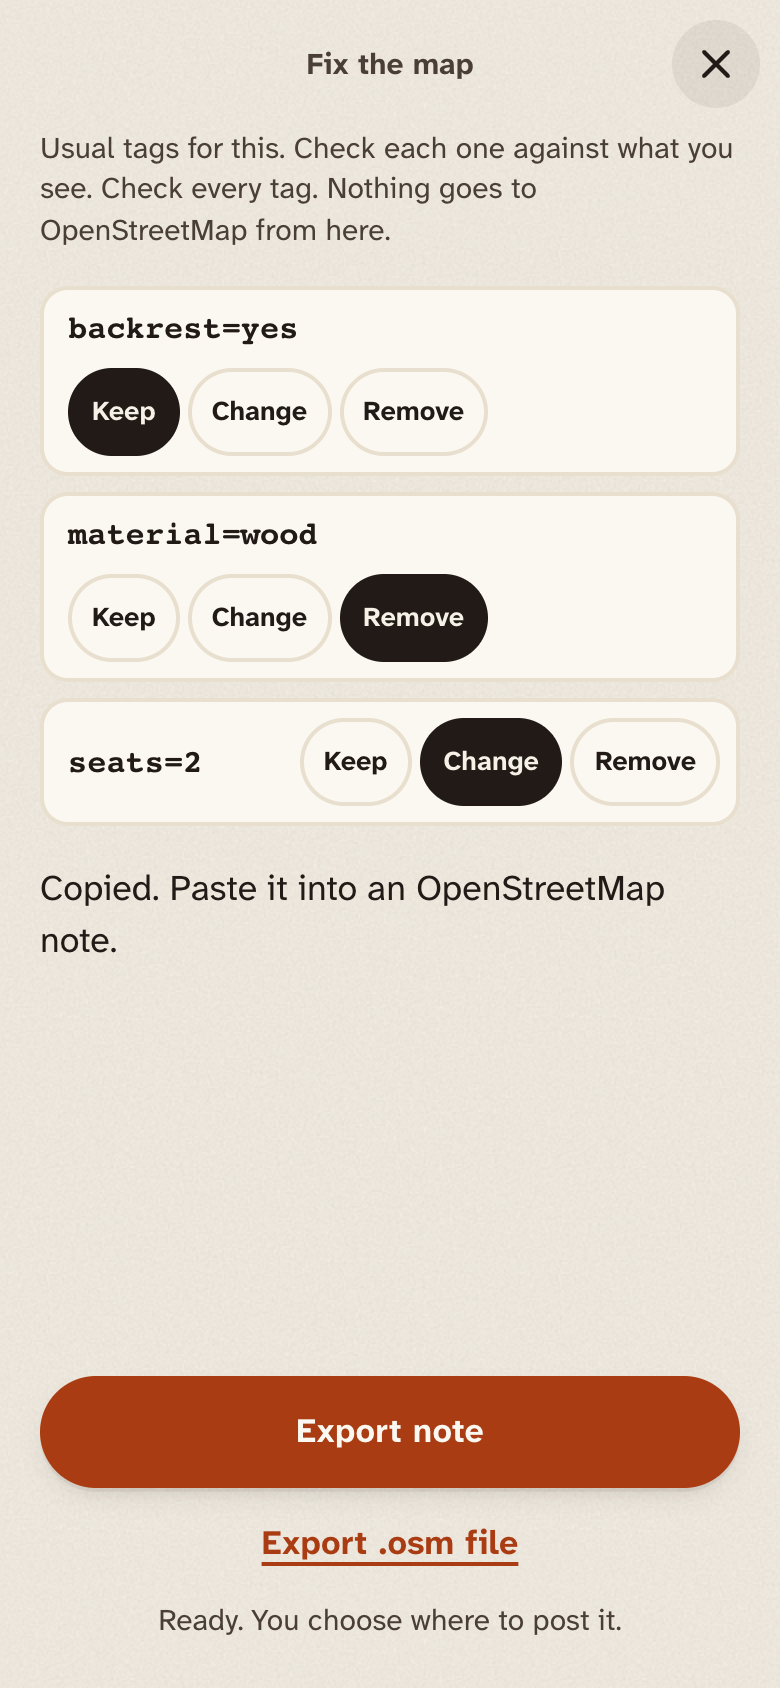
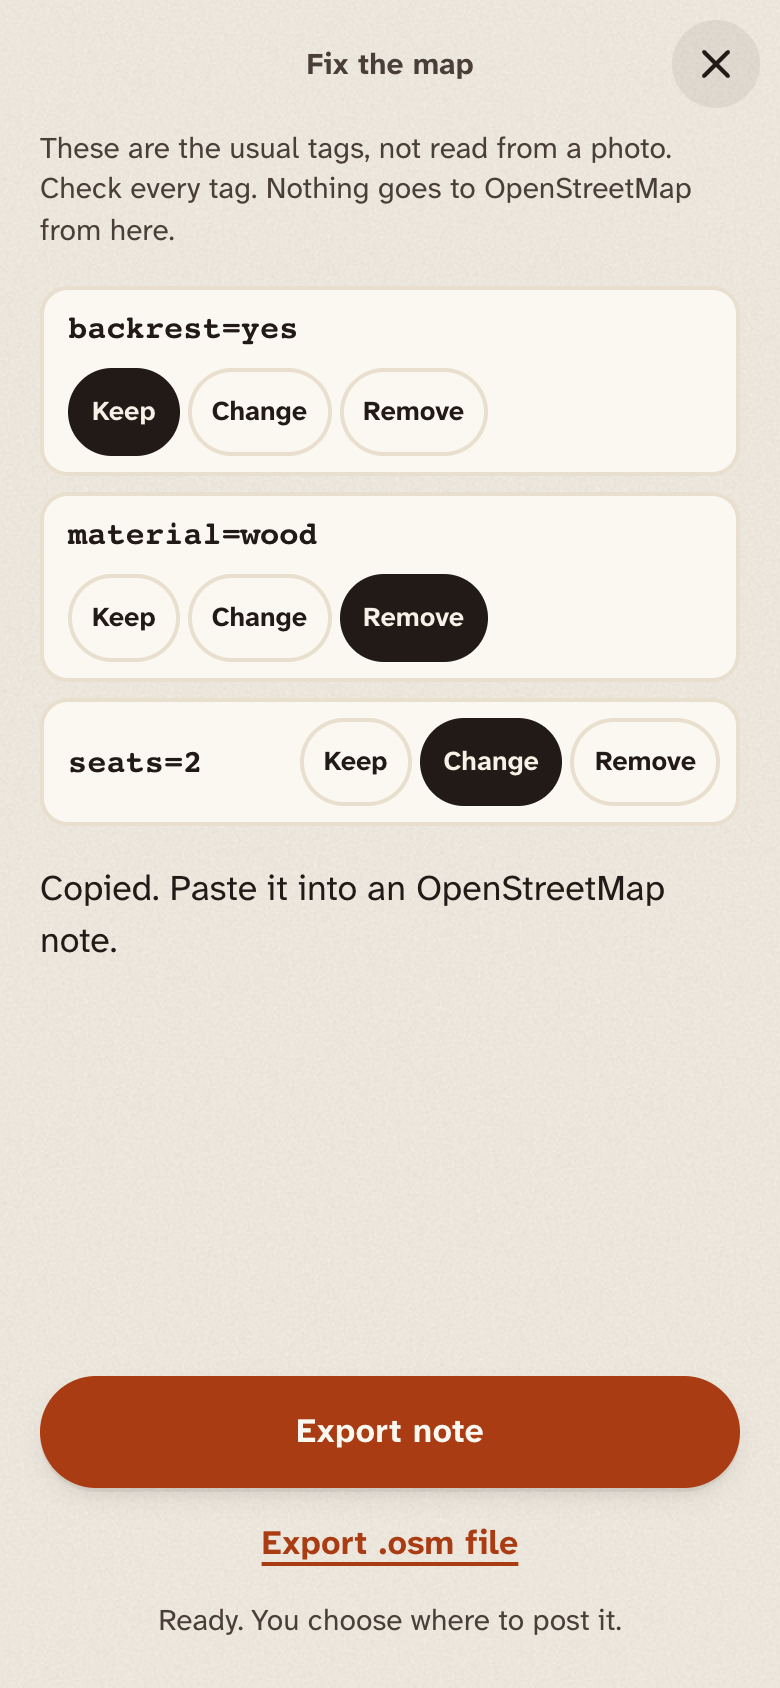
Fix the map drafts tags from a photo through the hub (ICR-ML5)
Take the photo: downscaled to 768 px, sent to /api/v1/drafts/tags, zeroed
after. Drafted tags start pending like the usual ones; the person's choice of
thing sets amenity. No photo or no hub: the usual tags, and the screen says
which. e2e:loop 20/20 with the real hub: bench photo to material=wood in
4.8 s cold, allow-listed keys only, export still locked until review.

Entire-Checkpoint: 01M4MXEEM6AZDDJSVHE33J1JYB

Changed region(s): [[0.0615, 0.0616, 0.8923, 0.154], [0.8923, 0.0616, 0.9231, 0.0924]]

diff --git a/apps/web/src/routes/app/(more)/fix-map/+page.svelte b/apps/web/src/routes/app/(more)/fix-map/+page.svelte
@@ -1,6 +1,7 @@
-<!-- O6 Fix the map (SRS-MAP-1 to -4): pick what's missing, check every tag, export a note or an
-     .osm file. Nothing is sent to OpenStreetMap or to our server; the person posts the export
-     themselves. With no photo drafter yet (ML5), the draft is the usual tags for the thing. -->
+<!-- O6 Fix the map (SRS-MAP-1 to -4): pick what's missing, take a photo, our laptop drafts the
+     tags (ICR-ML5, POST /api/v1/drafts/tags), the person checks every tag, then exports a note or
+     an .osm file. The photo is zeroed after the draft and is never in an export. Nothing is sent
+     to OpenStreetMap; the person posts the export themselves. No photo or no hub: the usual tags. -->
 <script lang="ts">
   import Screen from "#lib/components/Screen.svelte";
   import Button from "#lib/components/Button.svelte";
@@ -8,6 +9,7 @@
   import TextField from "#lib/components/TextField.svelte";
   import { t } from "#lib/copy/index.ts";
   import { askLocation } from "#lib/permissions/index.ts";
+  import { toJpeg768 } from "#lib/photo.ts";
   import { fixmap } from "#lib/map/index.ts";
   import type { AllowKey, Review, Thing } from "#lib/map/fixmap.ts";
   import { back } from "../back.ts";
@@ -20,12 +22,28 @@
   let error = $state("");
   let status = $state("");
   let locating = $state(false);
+  let drafting = $state(false);
+  let source = $state<"photo" | "none" | "failed">("none");
+  let input: HTMLInputElement | undefined = $state();
   let review = $state<Review | null>(null);
   let editing = $state<AllowKey | null>(null);
   let draft = $state("");
   let fieldError = $state("");
 
-  async function start() {
+  /** Ask the hub for tags. Empty on any failure; the thing's own amenity is the person's choice. */
+  async function ask(jpeg: Uint8Array): Promise<unknown> {
+    const res = await fetch("/api/v1/drafts/tags", {
+      method: "POST",
+      headers: { "content-type": "image/jpeg" },
+      body: jpeg as BodyInit,
+    });
+    if (!res.ok) throw new Error(String(res.status));
+    const body = (await res.json()) as { tags?: Record<string, string> };
+    const { amenity: _, ...rest } = body.tags ?? {};
+    return rest;
+  }
+
+  async function start(photo: File | null) {
     error = "";
     locating = true;
     const at = await askLocation({ timeoutMs: 15_000 });
@@ -35,7 +53,23 @@
       return;
     }
     const th = thing as Thing;
-    review = fixmap.startReview(th, { lat: at.coords.lat, lon: at.coords.lon }, fixmap.STARTER[th]);
+    let tags = fixmap.STARTER[th];
+    source = "none";
+    if (photo) {
+      drafting = true;
+      const jpeg = new Uint8Array(await (await toJpeg768(photo).catch(() => photo)).arrayBuffer());
+      const drafted = await fixmap.draftFromPhoto(jpeg, ask); // zero-fills jpeg (SRS-MAP-4)
+      drafting = false;
+      source = drafted.length ? "photo" : "failed";
+      if (drafted.length) tags = drafted;
+    }
+    review = fixmap.startReview(th, { lat: at.coords.lat, lon: at.coords.lon }, tags);
+  }
+
+  function picked(e: Event) {
+    const f = (e.currentTarget as HTMLInputElement).files?.[0] ?? null;
+    (e.currentTarget as HTMLInputElement).value = "";
+    if (f) start(f);
   }
 
   function edit(key: AllowKey, value: string) {
@@ -85,9 +119,16 @@
 <Screen heading={t("map.title")} title={t("map.title")} onclose={back}>
   {#if !review}
     <Choice label={t("map.pick")} bind:value={thing} {options} />
+    <p class="t-small t-muted">{t("map.photoAsk")}</p>
+    <input bind:this={input} class="file" type="file" accept="image/*" capture="environment" onchange={picked} tabindex="-1" aria-hidden="true" />
+    {#if drafting}<p class="t-muted" role="status">{t("map.drafting")}</p>{/if}
     {#if error}<p role="alert">{error}</p>{/if}
   {:else}
-    <p class="t-small t-muted">{t("map.starter")} {t("map.review")}</p>
+    {#if source === "photo"}<p class="t-small" role="status">{t("map.photoGone")}</p>{/if}
+    <p class="t-small t-muted">
+      {source === "photo" ? t("map.drafted") : source === "failed" ? t("map.noDraft") : t("map.starter")}
+      {t("map.review")}
+    </p>
     <ul class="tags">
       {#each review.tags as tag (tag.key)}
         <li>
@@ -112,7 +153,8 @@
   {/if}
   {#snippet actions()}
     {#if !review}
-      <Button onclick={start} disabled={!thing} loading={locating}>{t("map.start")}</Button>
+      <Button icon="camera" onclick={() => input?.click()} disabled={!thing} loading={locating || drafting}>{t("camera.shutter")}</Button>
+      <Button variant="text" onclick={() => start(null)} disabled={!thing || locating || drafting}>{t("map.noPhoto")}</Button>
     {:else}
       <Button onclick={exportNote} disabled={!ready}>{t("map.export")}</Button>
       <Button variant="text" onclick={exportOsm} disabled={!ready}>{t("map.exportFile")}</Button>
@@ -132,4 +174,5 @@
   .acts button { min-height: 44px; padding: 0 10px; border-radius: var(--r-pill); border: 2px solid var(--line); background: transparent; color: var(--text); font-weight: 700; font-size: 0.85rem; }
   .acts button[aria-pressed="true"] { background: var(--text); color: var(--bg); border-color: var(--text); }
   .edit { display: flex; flex-direction: column; gap: 8px; }
+  .file { position: absolute; width: 1px; height: 1px; opacity: 0; pointer-events: none; }
 </style>

diff --git a/apps/web/test/e2e/loop.ts b/apps/web/test/e2e/loop.ts
@@ -33,15 +33,22 @@ const server = spawn(process.execPath, ["apps/server/src/main.ts"], {
   },
   stdio: "ignore",
 });
-process.on("exit", () => server.kill("SIGTERM"));
-for (let i = 0; i < 120; i++) {
-  if (
-    await fetch(`${URL0}/api/v1/health`).then(
-      (r) => r.ok,
-      () => false,
-    )
-  )
-    break;
+// The hub drafts Fix the map tags from a photo (ICR-ML5). It needs Ollama with the model.
+const hub = spawn(process.execPath, ["apps/hub/src/main.ts"], {
+  cwd: ROOT,
+  env: { ...process.env, LOG_LEVEL: "warn", FLARE_SERVER_URL: `ws://localhost:${PORT}` },
+  stdio: "ignore",
+});
+process.on("exit", () => {
+  hub.kill("SIGTERM");
+  server.kill("SIGTERM");
+});
+for (let i = 0; i < 240; i++) {
+  const h = await fetch(`${URL0}/api/v1/health`).then(
+    (r) => r.json() as Promise<{ hub: string }>,
+    () => ({ hub: "" }),
+  );
+  if (h.hub === "connected") break;
   await new Promise((r) => setTimeout(r, 250));
 }
 
@@ -158,7 +165,7 @@ try {
     });
     await page.goto(`${URL0}/app/fix-map/`);
     await page.getByRole("radio", { name: "Bench" }).check();
-    await page.getByRole("button", { name: "Check the tags" }).click();
+    await page.getByRole("button", { name: "No photo" }).click();
     const exportNote = page.getByRole("button", { name: "Export note" });
     await page.getByText("3 tags left to check").waitFor({ timeout: 10_000 });
     check("fix-map: export waits until every tag is checked (SRS-MAP-2)", await exportNote.isDisabled());
@@ -193,10 +200,71 @@ try {
     await page.screenshot({ path: path.join(OUT, "e2e-o6-fixmap.png"), fullPage: true });
     await ctx.close();
   }
+  // Fix the map with a real photo through the hub: a bench (lab photo 04, Wikimedia Commons,
+  // license in evals/datasheets/photos.md; lab/ is not in git, so this block needs the lab copy).
+  const BENCH = path.join(ROOT, "lab/data/photos/p04.jpg");
+  if (!fs.existsSync(BENCH)) console.info("SKIP fix-map photo draft: lab/data/photos/p04.jpg not here");
+  else {
+    const ctx = await browser.newContext({
+      ...phone,
+      permissions: ["geolocation"],
+      geolocation: { latitude: 42.3196, longitude: -83.2129 },
+    });
+    const page = await ctx.newPage();
+    const calls: string[] = [];
+    page.on("pageerror", (e) => fails.push(`fix-map photo: ${e.message}`));
+    page.on("request", (r) => {
+      if (new URL(r.url()).pathname.startsWith("/api/")) calls.push(new URL(r.url()).pathname);
+    });
+    await page.goto(`${URL0}/app/fix-map/`);
+    await page.getByRole("radio", { name: "Bench" }).check();
+    const t0 = Date.now();
+    await page.locator('input[type="file"]').setInputFiles(BENCH);
+    await page.getByText("Drafted from your photo on our laptop.").waitFor({ timeout: 20_000 });
+    const ms = Date.now() - t0;
+    const tags = await page.locator(".tags code").allTextContents();
+    check(
+      "fix-map photo: the hub drafts tags from the photo (SRS-MAP-1)",
+      tags.length > 0,
+      `${tags.join(" ")}, ${ms} ms`,
+    );
+    const keys = tags.map((x) => x.split("=")[0]);
+    check(
+      "fix-map photo: every drafted key is on the allow-list (BR-AI-4)",
+      keys.every((k) =>
+        [
+          "backrest",
+          "material",
+          "seats",
+          "wheelchair",
+          "fee",
+          "access",
+          "opening_hours",
+          "drinking_water",
+          "step_count",
+          "handrail",
+          "covered",
+          "lit",
+        ].includes(k ?? ""),
+      ),
+    );
+    check(
+      "fix-map photo: says the photo is deleted (SRS-MAP-4)",
+      await page.getByText("Photo deleted. It's not in the export.").isVisible(),
+    );
+    check(
+      "fix-map photo: every tag still waits for review",
+      await page.getByRole("button", { name: "Export note" }).isDisabled(),
+    );
+    check("fix-map photo: one API call, the draft", calls.join(",") === "/api/v1/drafts/tags", calls.join(","));
+    await page.screenshot({ path: path.join(OUT, "e2e-o6-fixmap-photo.png"), fullPage: true });
+    await ctx.close();
+  }
 } catch (e) {
   fails.push(e instanceof Error ? (e.message.split("\n")[0] ?? "error") : String(e));
 }
 await browser.close();
+hub.kill("SIGTERM");
 server.kill("SIGTERM");
 console.info(fails.length ? `\nFAIL ${fails.join(" | ")}` : "\nloop e2e: all pass");
 process.exit(fails.length ? 1 : 0);

diff --git a/docs/content/03-checks.md b/docs/content/03-checks.md
@@ -4,7 +4,7 @@ Generated by `design/prototype/scripts/copy-lint.mjs`. Run it from `design/proto
 
 ## Result
 
-- Strings checked: **720** keys (5 with a singular form), in 21 kinds: title 100, aria 28, status 60, hint 50, separator 2, error 29, button 92, message 101, label 50, placeholder 7, share 7, option 13, fragment 33, export 1, push 12, bot 18, log 1, sms 4, og-title 9, og-desc 10, prose 93.
+- Strings checked: **723** keys (5 with a singular form), in 21 kinds: title 100, aria 28, status 60, hint 53, separator 2, error 29, button 92, message 101, label 50, placeholder 7, share 7, option 13, fragment 33, export 1, push 12, bot 18, log 1, sms 4, og-title 9, og-desc 10, prose 93.
 - Problems: **0**.
 - Longest button: 3 words (limit 3). Longest UI string: 12 words (limit 12). Longest prose sentence: 23 words (limit 25).
 - Fixed requirement strings present word for word: 41 of 41.
@@ -32,12 +32,12 @@ Every string, raw template and filled sample, against each rule:
 
 ## Readability (Flesch-Kincaid grade)
 
-Formula: 0.39 × (words ÷ sentences) + 11.8 × (syllables ÷ words) − 15.59, in `scripts/readability.mjs`. Strings of 4 words or more are graded (420); the other 293 are buttons and labels of 1 to 3 words, where one long word decides the score and the grade means nothing. Scores below 0 count as 0 in the averages. Target: about grade 6.
+Formula: 0.39 × (words ÷ sentences) + 11.8 × (syllables ÷ words) − 15.59, in `scripts/readability.mjs`. Strings of 4 words or more are graded (423); the other 293 are buttons and labels of 1 to 3 words, where one long word decides the score and the grade means nothing. Scores below 0 count as 0 in the averages. Target: about grade 6.
 
 | Group | Strings | Average grade | Over 8 |
 | --- | --- | --- | --- |
-| All graded strings | 420 | 2.1 | 10 |
-| UI (buttons, messages, labels, push, bot) | 318 | 1.6 | 5 |
+| All graded strings | 423 | 2.1 | 10 |
+| UI (buttons, messages, labels, push, bot) | 321 | 1.6 | 5 |
 | Prose (website, statements, exports) | 102 | 4.0 | 5 |
 
 Strings above grade 8, and why they stay:
@@ -153,7 +153,7 @@ Note for engineering: the "…" that BR-CH-2 asks for is not in the GSM-7 alphab
 These strings are final but live in channels or components outside this role's files. Each group says who wires it.
 
 - **Component (wire after merge): Screen.svelte** (2): `app.close`, `app.menu`
-- **Engineering or design to place** (156): `app.sending`, `app.loading`, `app.tier.phone`, `app.tier.rules`, `app.dot`, `err.server`, `err.rateLimit`, `err.over`, `err.sealPhoto`, `err.storageFull`, `err.oldBrowser`, `err.inAppBrowser`, `perm.locationHost.title`, `perm.locationHost.body`, `perm.locationHost.allow`, `perm.locationHost.alt`, `perm.locationHost.denied`, `perm.locationHost.label`, `perm.locationHost.placeholder`, `perm.locationFriend.title`, `perm.locationFriend.body`, `perm.locationFriend.allow`, `perm.locationFriend.alt`, `perm.locationFriend.denied`, `perm.motion.title`, `perm.motion.body`, `perm.motion.allow`, `perm.motion.alt`, `perm.motion.denied`, `perm.notify.title`, `perm.notify.body`, `perm.notify.allow`, `perm.notify.alt`, `perm.notify.homeScreen`, `perm.notify.homeScreenHow`, `perm.notify.denied`, `perm.mic.title`, `perm.mic.body`, `perm.mic.body2`, `perm.mic.allow`, `perm.mic.alt`, `perm.mic.denied`, `develop.tooLong`, `sent.copyText`, `sent.copied`, `host.cancel.title`, `host.cancel.body`, `host.cancel.yes`, `host.cancel.no`, `host.textYes.open`, `host.textYes.label`, `host.textYes.hint`, `host.textYes.add`, `host.textYes.done`, `host.textYes.max`, `host.textYes.wrong`, `host.live.title`, `host.live.body`, `host.live.yes`, `host.live.no`, `join.full`, `invite.where`, `cond.listening`, `cond.tooMany`, `readback.line`, `readback.rule.after`, `readback.rule.maxWalk`, `readback.chip.after`, `readback.chip.maxWalk`, `readback.plain.title`, `readback.plain.yes`, `readback.plain.no`, `in.takenBack`, `notSuit.restroom`, `access.noneNear`, `lit.cantSheet.title`, `lit.cantSheet.body`, `lit.cantSheet.yes`, `lit.cantSheet.no`, `lit.cantDone`, `compass.start`, `plan.pickStart`, `plan.pickDeadline`, `plan.err.tooSoon`, `plan.err.tooFar`, `ladder.madeRules`, `ladder.template.step1`, `ladder.template.step2`, `ladder.template.step3`, `ladder.template.step4`, `ladder.sunsetOff`, `ladder.err.order`, `planLit.ember`, `fade.newSpot`, `forget.title`, `forget.body`, `forget.last`, `forget.yes`, `forget.no`, `forget.done`, `more.noGroup`, `forget.failed`, `needs.saved`, `check.copied`, `loop.stopReading`, `loop.noLocation`, `loop.noMap`, `loop.hint`, `loop.finding`, `loop.card.title`, `loop.turn.water`, `map.exportFile`, `map.photoGone`, `map.noteText`, `map.pick`, `map.start`, `map.starter`, `map.changeLabel`, `map.badValue`, `map.save`, `map.noLocation`, `map.copied`, `site.nav.skip`, `site.nav.footAria`, `site.nav.open`, `site.home.readHow`, `site.home.readPrivacy`, `site.home.readAccess`, `site.home.readRun`, `site.how.gemma`, `site.privacy.audit.live`, `site.privacy.audit.pass`, `site.privacy.audit.fail`, `site.privacy.audit.down`, `site.privacy.audit.colStore`, `site.privacy.audit.colLeft`, `site.privacy.audit.colTotal`, `site.privacy.audit.caption`, `site.run.needs`, `site.run.s1`, `site.run.s2`, `site.run.s3`, `site.run.db`, `site.run.license`, `app.soundOff`, `app.soundOn`, `app.updateReady`, `app.updateReload`, `app.outboxDropped`, `install.title`, `install.body`, `install.cta`, `install.later`, `install.done`, `site.privacy.l.sentry`, `site.privacy.l.cloud`
+- **Engineering or design to place** (159): `app.sending`, `app.loading`, `app.tier.phone`, `app.tier.rules`, `app.dot`, `err.server`, `err.rateLimit`, `err.over`, `err.sealPhoto`, `err.storageFull`, `err.oldBrowser`, `err.inAppBrowser`, `perm.locationHost.title`, `perm.locationHost.body`, `perm.locationHost.allow`, `perm.locationHost.alt`, `perm.locationHost.denied`, `perm.locationHost.label`, `perm.locationHost.placeholder`, `perm.locationFriend.title`, `perm.locationFriend.body`, `perm.locationFriend.allow`, `perm.locationFriend.alt`, `perm.locationFriend.denied`, `perm.motion.title`, `perm.motion.body`, `perm.motion.allow`, `perm.motion.alt`, `perm.motion.denied`, `perm.notify.title`, `perm.notify.body`, `perm.notify.allow`, `perm.notify.alt`, `perm.notify.homeScreen`, `perm.notify.homeScreenHow`, `perm.notify.denied`, `perm.mic.title`, `perm.mic.body`, `perm.mic.body2`, `perm.mic.allow`, `perm.mic.alt`, `perm.mic.denied`, `develop.tooLong`, `sent.copyText`, `sent.copied`, `host.cancel.title`, `host.cancel.body`, `host.cancel.yes`, `host.cancel.no`, `host.textYes.open`, `host.textYes.label`, `host.textYes.hint`, `host.textYes.add`, `host.textYes.done`, `host.textYes.max`, `host.textYes.wrong`, `host.live.title`, `host.live.body`, `host.live.yes`, `host.live.no`, `join.full`, `invite.where`, `cond.listening`, `cond.tooMany`, `readback.line`, `readback.rule.after`, `readback.rule.maxWalk`, `readback.chip.after`, `readback.chip.maxWalk`, `readback.plain.title`, `readback.plain.yes`, `readback.plain.no`, `in.takenBack`, `notSuit.restroom`, `access.noneNear`, `lit.cantSheet.title`, `lit.cantSheet.body`, `lit.cantSheet.yes`, `lit.cantSheet.no`, `lit.cantDone`, `compass.start`, `plan.pickStart`, `plan.pickDeadline`, `plan.err.tooSoon`, `plan.err.tooFar`, `ladder.madeRules`, `ladder.template.step1`, `ladder.template.step2`, `ladder.template.step3`, `ladder.template.step4`, `ladder.sunsetOff`, `ladder.err.order`, `planLit.ember`, `fade.newSpot`, `forget.title`, `forget.body`, `forget.last`, `forget.yes`, `forget.no`, `forget.done`, `more.noGroup`, `forget.failed`, `needs.saved`, `check.copied`, `loop.stopReading`, `loop.noLocation`, `loop.noMap`, `loop.hint`, `loop.finding`, `loop.card.title`, `loop.turn.water`, `map.exportFile`, `map.photoGone`, `map.noteText`, `map.pick`, `map.starter`, `map.changeLabel`, `map.badValue`, `map.save`, `map.noLocation`, `map.copied`, `map.photoAsk`, `map.noPhoto`, `map.drafted`, `map.noDraft`, `site.nav.skip`, `site.nav.footAria`, `site.nav.open`, `site.home.readHow`, `site.home.readPrivacy`, `site.home.readAccess`, `site.home.readRun`, `site.how.gemma`, `site.privacy.audit.live`, `site.privacy.audit.pass`, `site.privacy.audit.fail`, `site.privacy.audit.down`, `site.privacy.audit.colStore`, `site.privacy.audit.colLeft`, `site.privacy.audit.colTotal`, `site.privacy.audit.caption`, `site.run.needs`, `site.run.s1`, `site.run.s2`, `site.run.s3`, `site.run.db`, `site.run.license`, `app.soundOff`, `app.soundOn`, `app.updateReady`, `app.updateReload`, `app.outboxDropped`, `install.title`, `install.body`, `install.cta`, `install.later`, `install.done`, `site.privacy.l.sentry`, `site.privacy.l.cloud`
 - **Component (wire after merge): apps/web/src/lib/ai** (6): `develop.empty`, `ladder.err.minutes`, `ladder.err.total`, `ladder.err.name`, `app.tier.cloud`, `ladder.madeCloud`
 - **Channel (engineering): share** (7): `share.flare.title`, `share.flare.text`, `share.plan.title`, `share.plan.text`, `share.card.title`, `share.card.text`, `share.note.title`
 - **Component (wire after merge): motion:PhotoPrint** (1): `invite.photoFallback`

diff --git a/docs/content/02-copy-deck.md b/docs/content/02-copy-deck.md
@@ -2,7 +2,7 @@
 
 Generated by `design/prototype/scripts/copy-lint.mjs` from `design/prototype/src/lib/copy/deck.json` (version 1.0, 2026-10-10). Do not edit this file by hand; edit the JSON and run the script.
 
-720 keys. Text is the template; **Words** and **Grade** are measured on the template filled with the sample values in `meta.sample` (Fuego, Ford Woods Park, by the pond). **Source** is the requirement a fixed string comes from; those must not change without a change request.
+723 keys. Text is the template; **Words** and **Grade** are measured on the template filled with the sample values in `meta.sample` (Fuego, Ford Woods Park, by the pond). **Source** is the requirement a fixed string comes from; those must not change without a change request.
 
 Variants in force: `privacy.coords` = B, `og.link` = safe. A = server holds spot coordinates until Gone (analyst decision 10, current requirements). B = OQ-1 adopted: coordinates only inside the sealed invite. B is in force: ADR-0009 adopted OQ-1. safe = preview uses only what the server can read (count, not the invite). full = BR-CH-4 as written (invite line in the preview); needs the server to hold the six words in plain text, which the architect must approve.
 
@@ -672,13 +672,16 @@ Variants in force: `privacy.coords` = B, `og.link` = safe. A = server holds spot
 | `map.thing.drinking_water` | drinking fountain | fragment | 2 | 8.8 | O6 export ({thing}) | owner: map:fixmap |
 | `map.thing.steps` | steps | fragment | 1 | -3.4 | O6 export ({thing}) | owner: map:fixmap |
 | `map.pick` | What's missing here? | title | 3 | 1.3 | O6 |  |
-| `map.start` | Check the tags | button | 3 | -2.6 | O6 |  |
 | `map.starter` | These are the usual tags, not read from a photo. | hint | 10 | 2.5 | O6 |  |
 | `map.changeLabel` | New value for {key} | label | 4 | 9.6 | O6 |  |
 | `map.badValue` | That value doesn't fit {key}. | message | 5 | 7.6 | O6 |  |
 | `map.save` | Save | button | 1 | -3.4 | O6 |  |
 | `map.noLocation` | No location, so no note. Allow it, then try again. | message | 10 | 2.9 | O6 |  |
 | `map.copied` | Copied. Paste it into an OpenStreetMap note. | status | 7 | 6.0 | O6 |  |
+| `map.photoAsk` | A photo lets our laptop draft the tags. It's deleted after. | hint | 11 | 3.7 | O6 |  |
+| `map.noPhoto` | No photo | button | 2 | 2.9 | O6 |  |
+| `map.drafted` | Drafted from your photo on our laptop. | hint | 7 | 4.0 | O6 |  |
+| `map.noDraft` | Our laptop couldn't draft tags. These are the usual ones. | hint | 10 | 0.5 | O6 |  |
 
 ## ai
 
